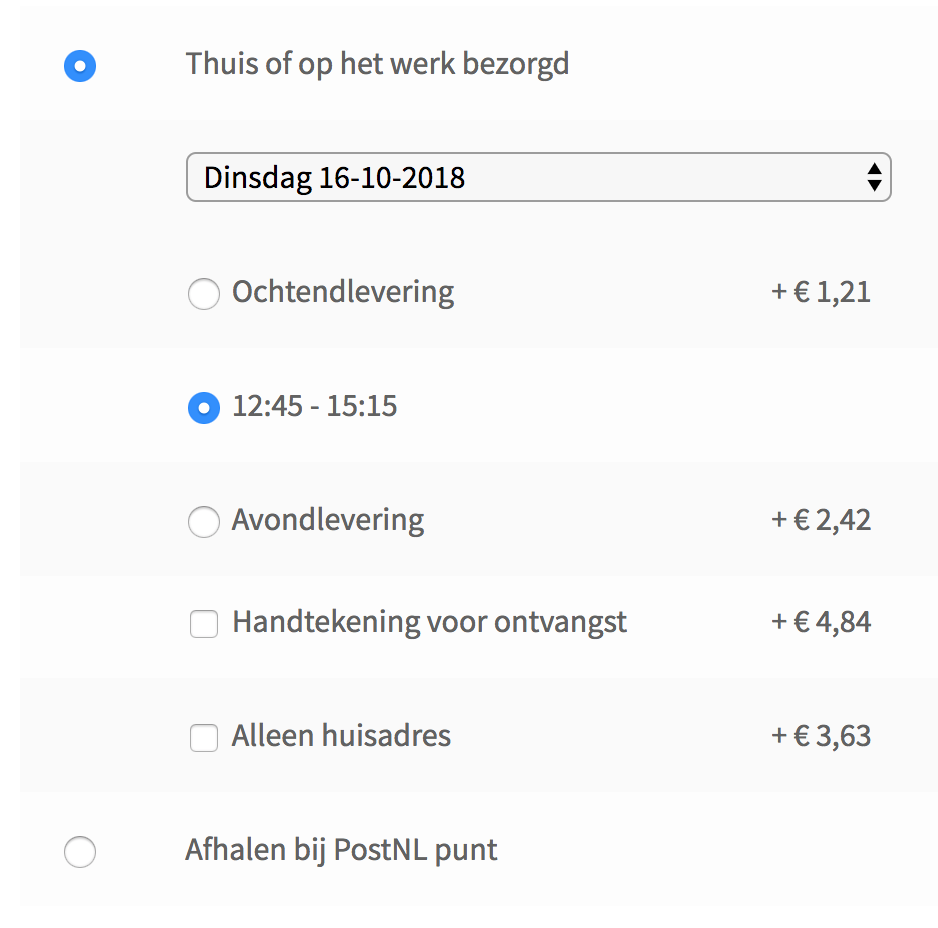
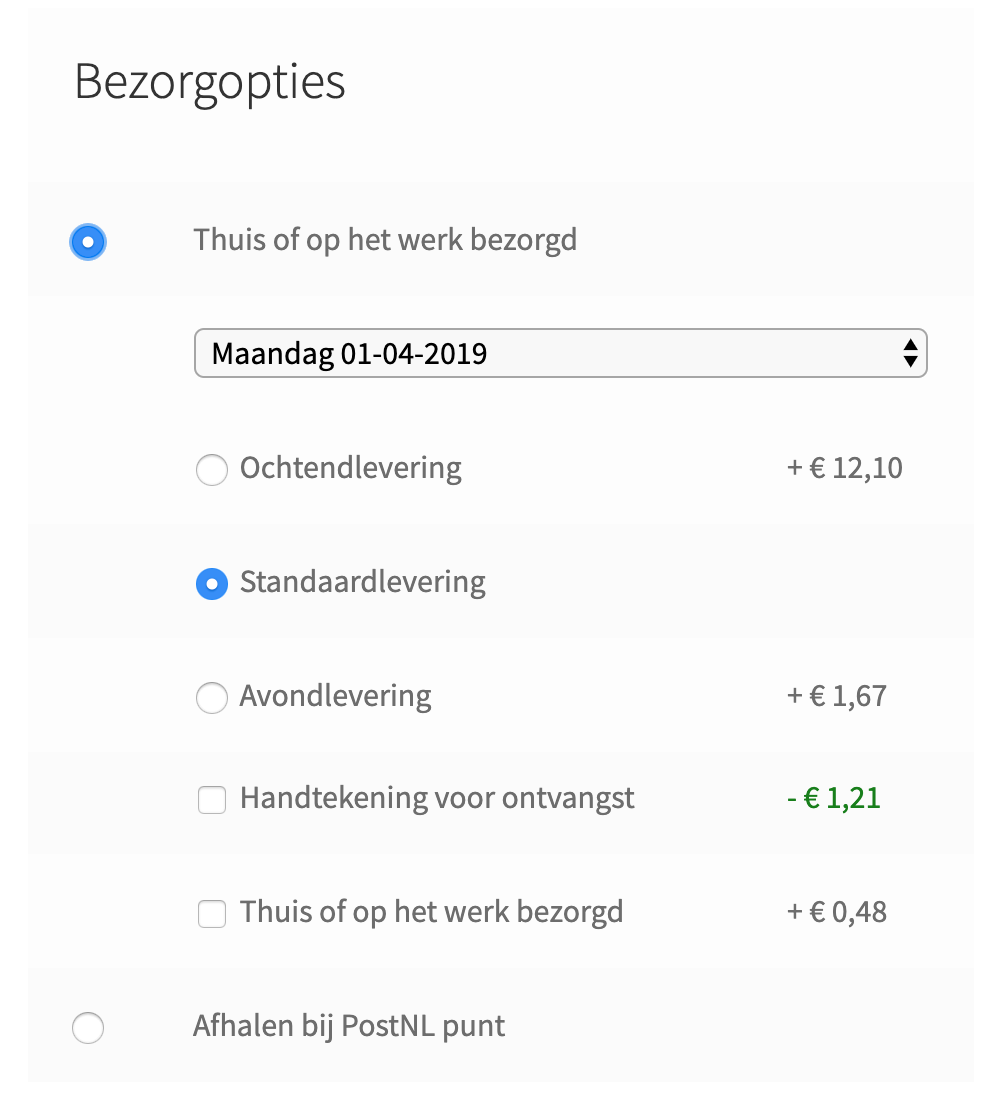
add - price text

diff --git a/index.html b/index.html
@@ -190,9 +190,10 @@
 
             <h3 id="2_3_3">2.3.3 Bezorgopties</h3>
             <p>
-                Bij de verschillende bezorgopties is het mogelijk een toeslag in te stellen. Deze zal voor de desbetreffende bezorgoptie doorberekend wordt aan jouw klant, via de checkout.
+                Bij de verschillende bezorgopties is het mogelijk een toeslag in te stellen. Deze zal voor de desbetreffende bezorgoptie doorberekend wordt aan jouw klant, via de checkout. Het is mogelijk om min bedragen in te voeren ook deze zal dan in de checkout te zien zijn.
                 Het is dus een toeslag op de standaardtarieven die je al hebt ingevoerd. In onderstaand voorbeeld zie je hoe deze toeslagen in de checkout terugkomen.<br><br>
-                <img src="media/woocommerce6.png" style="width: 400px;"><br>
+                <img src="media/woocommerce6.png" style="width: 400px;">
+                <img src="media/checkout_posnl_locatie.png" style="width: 400px; position: absolute;"><br>
                 <i><b>Let op:</b> de MyParcel checkout kan er op iedere website er anders uit zien. De checkout zal de style van het thema overnemen.</i><br><br>
 
                 Bij de opties <span class="nice">ochtendlevering</span>, <span class="nice">avondlevering</span> en de <span class="nice">standaard bezorgtitel</span> is het mogelijk een titel mee te geven. Deze titel zal aan de voorkant van de website te zien zijn.
